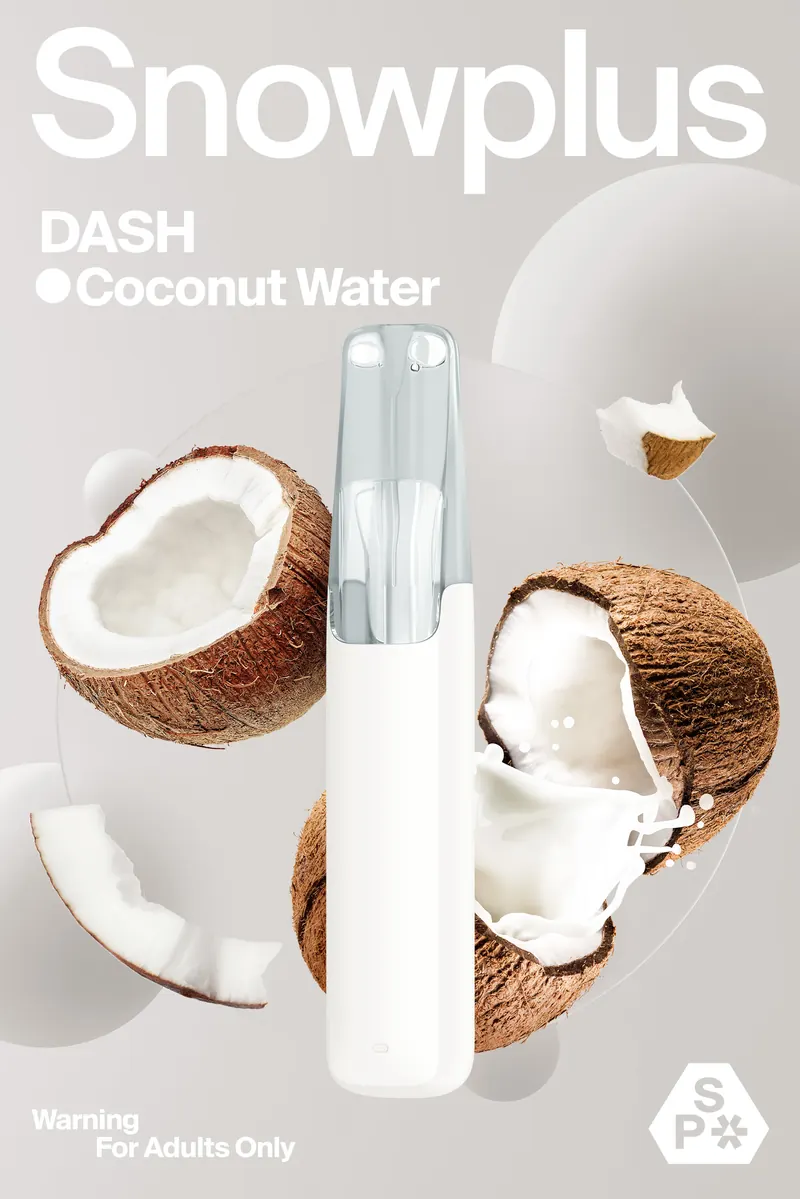
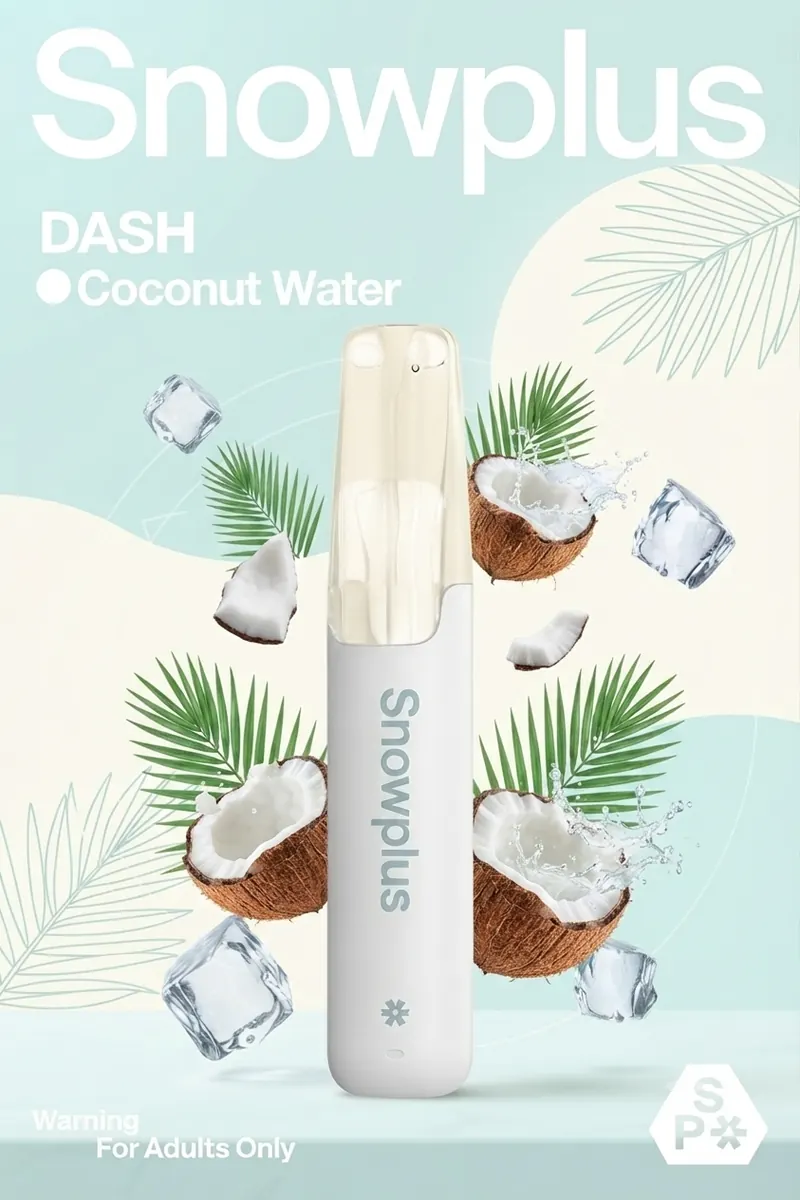
1

diff --git a/admin.html b/admin.html
@@ -1003,6 +1003,11 @@
             { key: 'Crystal Grape', label: '紫晶葡萄' },
             { key: 'Mineral Water', label: '矿泉水' },
             { key: 'Coconut Water', label: '椰子水' },
+            { key: 'Alpine White Peach', label: '高山白桃' },
+            { key: 'Floral Oolong', label: '花香乌龙' },
+            { key: 'Honey Yuzu Tea', label: '蜂蜜柚子茶' },
+            { key: 'Salted Fizz', label: '海盐气泡' },
+            { key: 'Kiwi Ice', label: '猕猴桃冰' },
             { key: 'Matcha Smoothie', label: '抹茶思慕雪' },
             { key: 'Peach Ice', label: '水蜜桃冰' },
             { key: 'Pink Guava', label: '粉红番石榴' },

diff --git a/script.js b/script.js
@@ -1208,6 +1208,11 @@ let products = [
             { name: 'Crystal Grape', nameCn: '紫晶葡萄', image: 'images/dash/tangy-grape.webp', tags: [{t:'甜',c:'sweet'},{t:'果香',c:'sweet'}] },
             { name: 'Mineral Water', nameCn: '矿泉水', image: 'images/dash/mineral-water.webp', tags: [{t:'清淡',c:'fresh'},{t:'清爽',c:'fresh'}] },
             { name: 'Coconut Water', nameCn: '椰子水', image: 'images/dash/coconut-water.webp', tags: [{t:'清甜',c:'sweet'},{t:'椰香',c:'rich'}] },
+            { name: 'Alpine White Peach', nameCn: '高山白桃', image: 'images/dash/alpine-white-peach.webp', tags: [{t:'清甜',c:'sweet'},{t:'果香',c:'sweet'},{t:'清爽',c:'fresh'}] },
+            { name: 'Floral Oolong', nameCn: '花香乌龙', image: 'images/dash/floral-oolong.webp', tags: [{t:'花香',c:'fresh'},{t:'茶香',c:'fresh'},{t:'醇厚',c:'rich'}] },
+            { name: 'Honey Yuzu Tea', nameCn: '蜂蜜柚子茶', image: 'images/dash/honey-yuzu-tea.webp', tags: [{t:'酸甜',c:'sour'},{t:'蜜香',c:'rich'},{t:'茶香',c:'fresh'}] },
+            { name: 'Salted Fizz', nameCn: '海盐气泡', image: 'images/dash/salted-fizz.webp', tags: [{t:'酸甜',c:'sour'},{t:'咸甜',c:'rich'},{t:'清爽',c:'fresh'}] },
+            { name: 'Kiwi Ice', nameCn: '猕猴桃冰', image: 'images/dash/kiwi-ice.webp', tags: [{t:'冰凉',c:'ice'},{t:'酸甜',c:'sour'},{t:'果香',c:'sweet'}] },
             { name: 'Matcha Smoothie', nameCn: '抹茶思慕雪', image: 'images/dash/matcha-smoothie.webp', tags: [{t:'醇厚',c:'rich'},{t:'茶香',c:'fresh'}] },
             { name: 'Peach Ice', nameCn: '水蜜桃冰', image: 'images/dash/peach-ice.webp', tags: [{t:'冰凉',c:'ice'},{t:'甜',c:'sweet'}] },
             { name: 'Pink Guava', nameCn: '粉红番石榴', image: 'images/dash/pink-guava.webp', tags: [{t:'甜',c:'sweet'},{t:'果香',c:'sweet'}] },